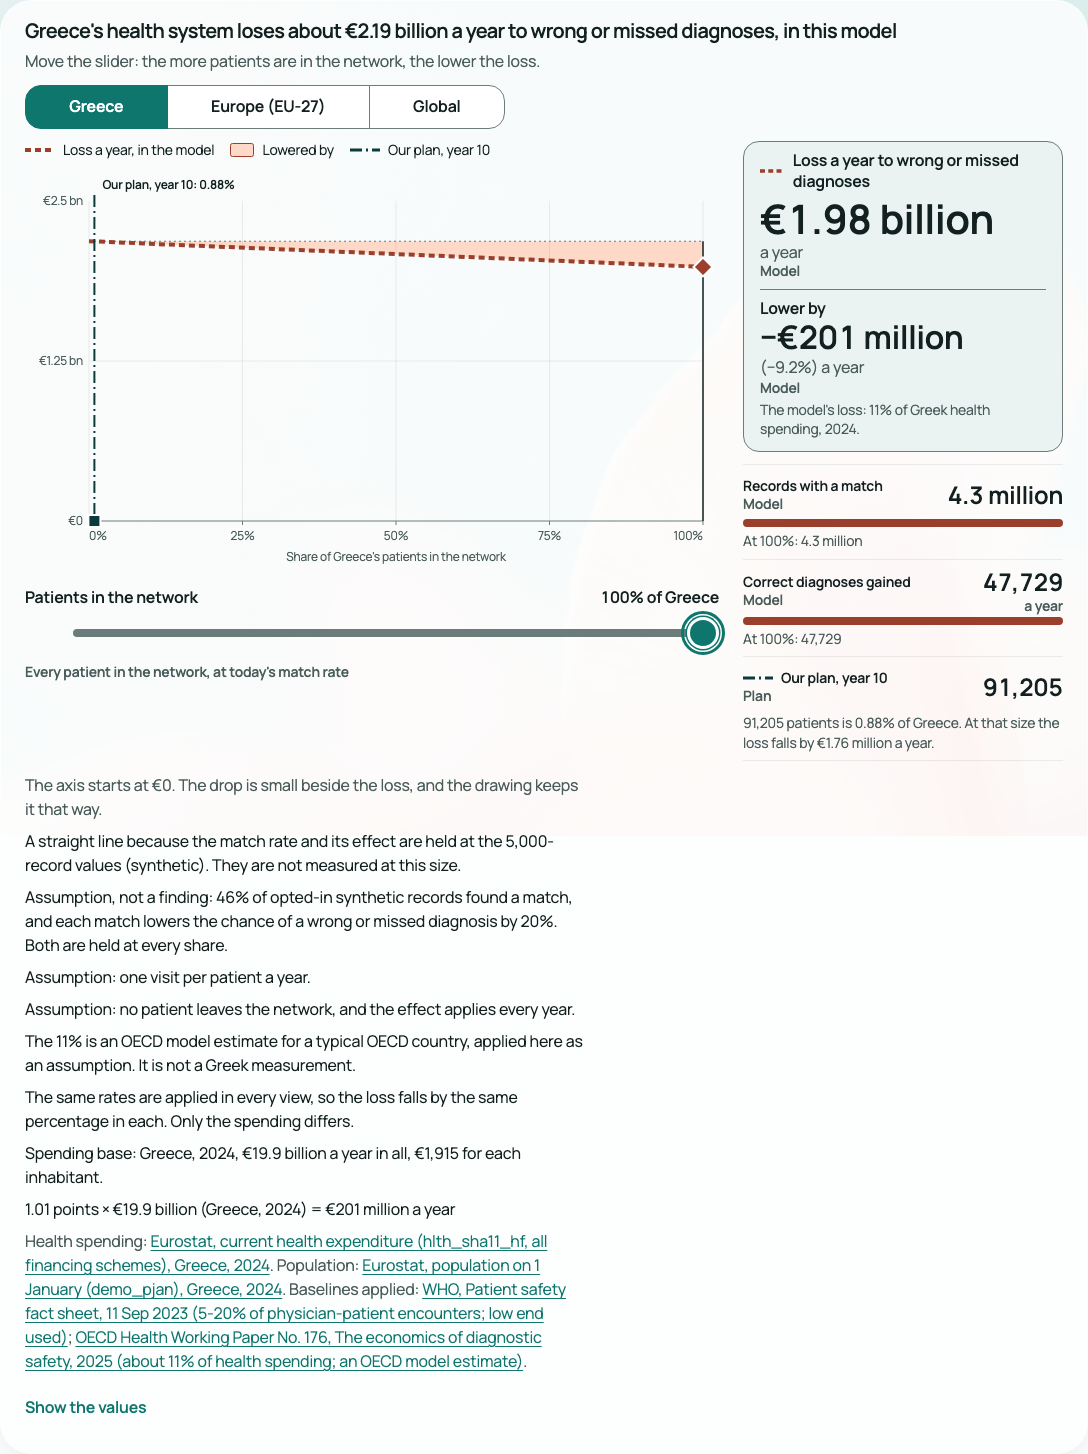
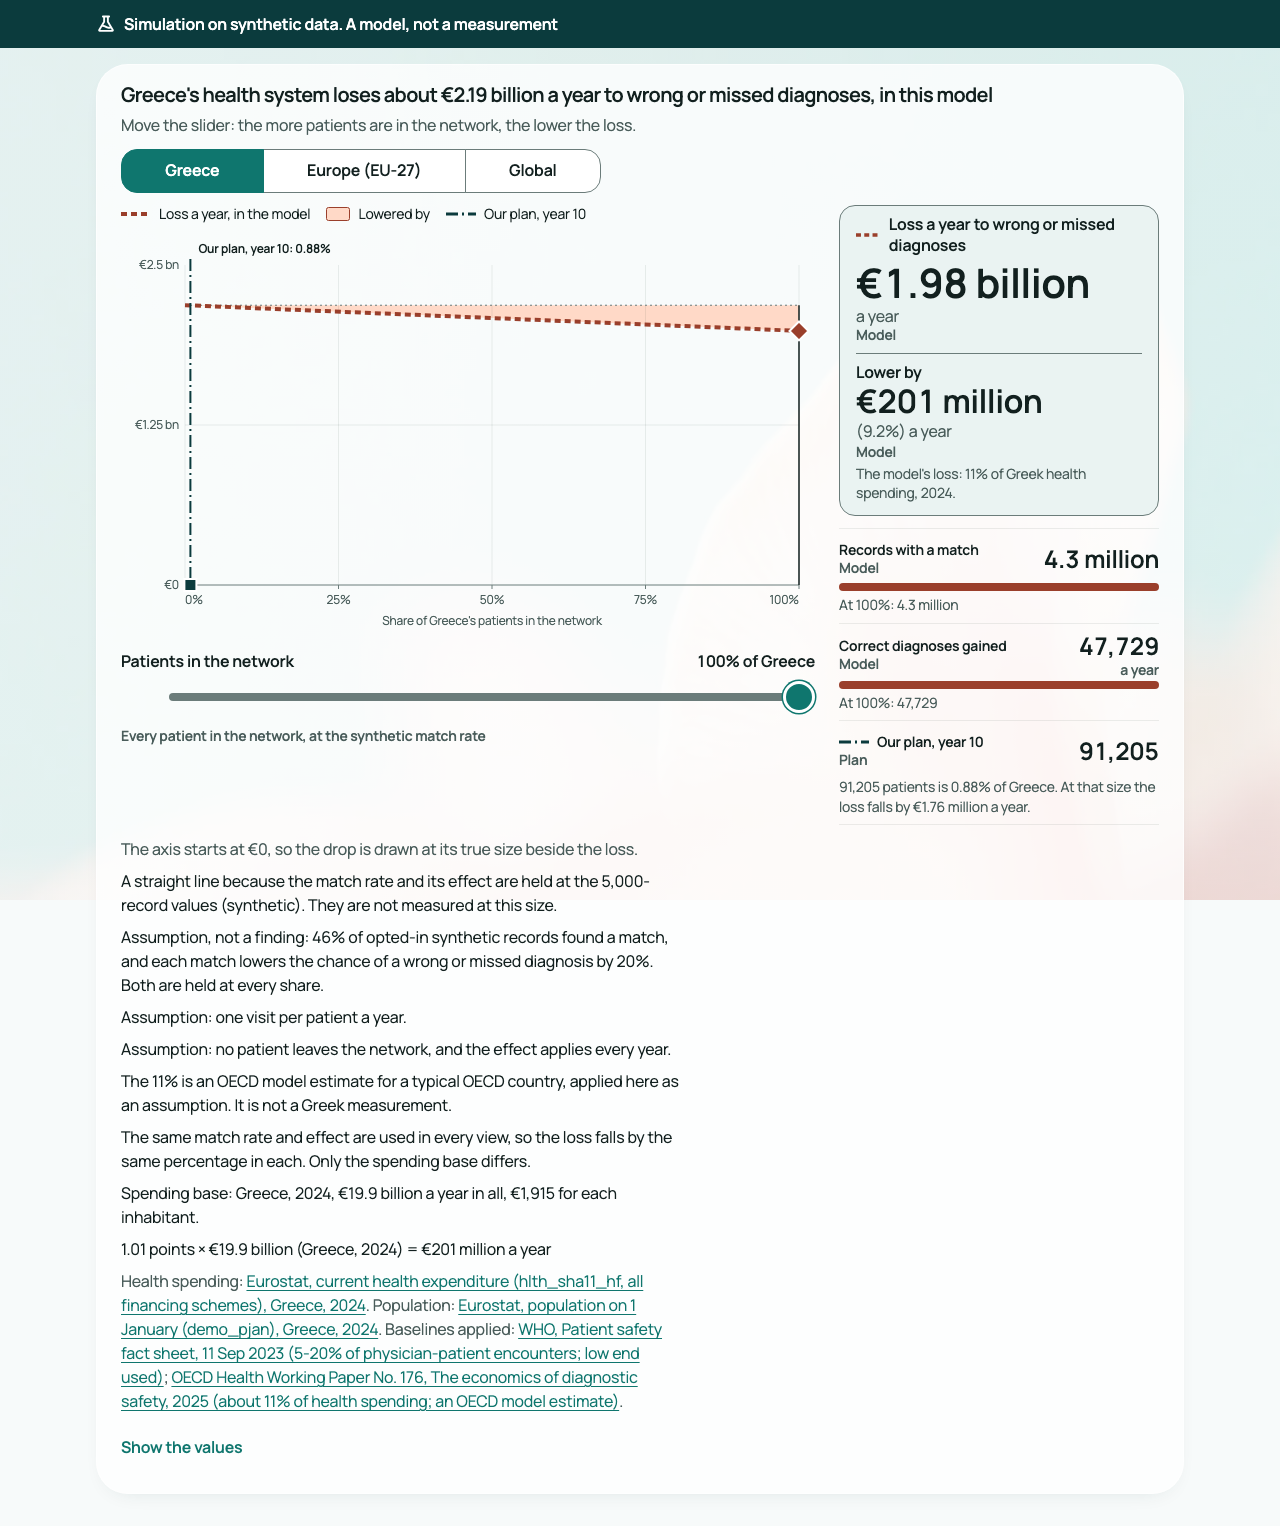
fix(sim): Anna's final loss-card strings, no minus after "Lower by" (MIN-4774) [Lane A] (#173)
Applies MIN-4770 comment 82f2dfc2 (rNoteAxis, rSameRates, rState, rFx) and drops the
minus on the drop figure, percentage and table column. Tests updated to the new text.

MIN-4774

(cherry picked from commit 3011bdd6074b96b651fabfb260415c70ee3cc27e)

diff --git a/src/features/matches/copy.ts b/src/features/matches/copy.ts
@@ -36,7 +36,7 @@ export const COPY = {
   optInReadError: 'Could not read your choice just now.',
 
   // The simulation page: ONE loss card (MIN-4774; spec A16; words: Anna MIN-4723 comment b08a38aa column M, CEO seat MIN-4771 rulings 2 and 3, CTO MIN-4769).
-  // No number is typed here: euros, counts, shares, years and the geography come from the data as arguments. Strings marked "pending Anna" are placeholders for her.
+  // No number is typed here: euros, counts, shares, years and the geography come from the data as arguments. Final strings: Anna, MIN-4770 comment 82f2dfc2.
   simLabel: 'Simulation on synthetic data. A model, not a measurement', // fixed by the CTO, never rewritten
   simUnavailable: 'The simulation data could not be read.',
   rTitle: {
@@ -54,15 +54,15 @@ export const COPY = {
     world: { of: 'the world', adj: 'world' },
   } as Record<string, { of: string; adj: string }>,
   rSliderLabel: 'Patients in the network',
-  rSliderLabelShort: 'Share in the network', // under 900 px (pending Anna)
+  rSliderLabelShort: 'Share in the network', // under 900 px
   rSliderValue: (a: { share: string; of: string }) => `${a.share} of ${a.of}`,
   rSliderAria: 'Share of patients in the network, from 0 to 100 percent. The numbers below show that share.',
   rSliderText: (a: { share: string; of: string; amount: string }) => `${a.share} of ${a.of}'s patients in the network. The loss falls by ${a.amount} a year.`,
-  // The state line under the slider (pending Anna): a fixed height, so nothing moves.
+  // The state line under the slider: a fixed height, so nothing moves.
   rState: {
-    zero: 'Today: nobody in the network, nothing changes',
-    plan: 'Close to the size our plan reaches by year 10',
-    full: "Every patient in the network, at today's match rate",
+    zero: 'Nobody in the network: the loss is unchanged',
+    plan: 'About the size our plan reaches in year 10',
+    full: 'Every patient in the network, at the synthetic match rate',
   },
   rHead: { loss: 'Loss a year to wrong or missed diagnoses', matches: 'Records with a match', dx: 'Correct diagnoses gained' },
   /** The money label is one constant (CEO seat MIN-4771 ruling 3: "Lower by"; the founder's form stays here, one word to switch, never without the CEO seat). */
@@ -80,7 +80,7 @@ export const COPY = {
   rPlanMarkerAria: (a: { year: number; share: string }) => `Marker: the share of patients our plan reaches in year ${a.year}, ${a.share}.`,
   rAxisTitle: (a: { of: string }) => `Share of ${a.of}'s patients in the network`,
   // The notes under the card, in this order (spec A16 section 7).
-  rNoteAxis: 'The axis starts at €0. The drop is small beside the loss, and the drawing keeps it that way.', // pending Anna
+  rNoteAxis: 'The axis starts at €0, so the drop is drawn at its true size beside the loss.',
   // The CTO's required line (MIN-4769 section 1), word for word, with the record count from the file.
   rStraight: (a: { records: string }) =>
     `A straight line because the match rate and its effect are held at the ${a.records}-record values (synthetic). They are not measured at this size.`,
@@ -88,7 +88,7 @@ export const COPY = {
     `Assumption, not a finding: ${a.rate} of opted-in synthetic records found a match, and each match lowers the chance of a wrong or missed diagnosis by ${a.effect}. Both are held at every share.`,
   rAssumeVisits: 'Assumption: one visit per patient a year.',
   rAssumeStay: 'Assumption: no patient leaves the network, and the effect applies every year.',
-  rSameRates: 'The same rates are applied in every view, so the loss falls by the same percentage in each. Only the spending differs.', // pending Anna
+  rSameRates: 'The same match rate and effect are used in every view, so the loss falls by the same percentage in each. Only the spending base differs.',
   // Anna's gAssumeShare for Greece and the EU-27 as drafted; the world's is the CEO seat's wording (MIN-4771 section 2). {share} is the file's baseline.
   rAssumeShare: {
     greece: (a: { share: string }) => `The ${a.share} is an OECD model estimate for a typical OECD country, applied here as an assumption. It is not a Greek measurement.`,
@@ -103,7 +103,7 @@ export const COPY = {
     `${a.points} points × ${a.total} (${a.geography}, ${a.year}) = ${a.amount} a year`,
   // Only where the file converts a currency (the world, 2023): the original, the head count and the named rate, visible without a tap (CEO seat conditions 18 and 19).
   rFx: (a: { total: string; perHead: string; people: string; year: number; rate: string }) =>
-    `Converted from ${a.total} (${a.perHead} a head, ${a.people} people, ${a.year}) at the ECB's ${a.year} average, US$ ${a.rate} per €1.`,
+    `Converted to euros from ${a.total} (${a.perHead} a head × ${a.people} people, ${a.year}) at the ECB's ${a.year} average rate, US$${a.rate} per €1.`,
   rSourceLead: 'Health spending:',
   rPopulationLead: 'Population:',
   rBaselines: 'Baselines applied:',

diff --git a/src/features/matches/reach.test.ts b/src/features/matches/reach.test.ts
@@ -213,20 +213,20 @@ describe('the card, as markup', () => {
       const html = render(id, 100);
       const c = cp(id, 100);
       expect(text(html, 'sim-value-loss'), `${title} loss`).toBe(rule(c.loss_eur));
-      expect(text(html, 'sim-value-drop'), `${title} drop`).toBe(`−${rule(c.drop_eur)}`);
-      expect(text(html, 'sim-drop-pct'), `${title} drop pct`).toBe('(−9.2%)');
+      expect(text(html, 'sim-value-drop'), `${title} drop`).toBe(rule(c.drop_eur));
+      expect(text(html, 'sim-drop-pct'), `${title} drop pct`).toBe('(9.2%)');
       expect(text(html, 'sim-value-matches'), `${title} matches`).toBe(count(c.matched));
       expect(text(html, 'sim-value-dx'), `${title} dx`).toBe(count(c.fewer_dx));
       expect(text(html, 'sim-state'), title).toBe(COPY.rState.full);
     }
-    expect(text(render('greece', 100), 'sim-value-drop')).toBe('−€201 million');
+    expect(text(render('greece', 100), 'sim-value-drop')).toBe('€201 million');
   });
 
   it('at 50% and 0.1% too, and the plan row and marker carry the plan\'s own figures', () => {
     const half = render('greece', 50);
     expect(text(half, 'sim-value-loss')).toBe(rule(cp('greece', 50).loss_eur));
     expect(text(half, 'sim-share')).toBe('50% of Greece');
-    expect(text(render('greece', 0.1), 'sim-value-drop')).toBe(`−${rule(cp('greece', 0.1).drop_eur)}`);
+    expect(text(render('greece', 0.1), 'sim-value-drop')).toBe(rule(cp('greece', 0.1).drop_eur));
     for (const g of M.geos) {
       const html = render(g.id, 0);
       const plan = cp(g.id, g.planSharePct);
@@ -261,7 +261,7 @@ describe('the card, as markup', () => {
       expect(text(html, 'sim-straight'), g.id).toBe('A straight line because the match rate and its effect are held at the 5,000-record values (synthetic). They are not measured at this size.');
       expect(text(html, 'sim-assumption'), g.id).toContain('46% of opted-in synthetic records found a match');
       expect(text(html, 'sim-help-loss'), g.id).toContain('11% of');
-      expect(text(html, 'sim-same-rates'), g.id).toContain('Only the spending differs');
+      expect(text(html, 'sim-same-rates'), g.id).toContain('Only the spending base differs');
       expect(html, g.id).not.toContain('41.4');
       expect(html, g.id).not.toMatch(/saved|savings|\bwill\b/i);
       expect(html, g.id).toContain('Simulation on synthetic data. A model, not a measurement');
@@ -273,7 +273,7 @@ describe('the card, as markup', () => {
     expect(text(w, 'sim-title')).toContain('Health systems worldwide lose about');
     expect(text(w, 'sim-base')).toContain('Global, 2023');
     expect(text(w, 'sim-fx')).toBe(
-      `Converted from US$${sig(geo('world').original.total / 1e12)} trillion (US$1,317 a head, 8.06 billion people, 2023) at the ECB's 2023 average, US$ 1.0813 per €1.`,
+      `Converted to euros from US$${sig(geo('world').original.total / 1e12)} trillion (US$1,317 a head × 8.06 billion people, 2023) at the ECB's 2023 average rate, US$1.0813 per €1.`,
     );
     expect(text(w, 'sim-share-note')).toContain('applied here to the world as an assumption');
     expect(text(w, 'sim-share-note')).toContain('Read it as a scale, not a measurement.');
@@ -294,7 +294,7 @@ describe('the card, as markup', () => {
     const html = render('greece', 0);
     expect([...html.matchAll(/data-testid="sim-values-row-(\d+)"/g)].map((m) => Number(m[1]))).toEqual([0, 10, 20, 30, 40, 50, 60, 70, 80, 90, 100]);
     expect(text(html, 'sim-values-row-50')).toContain(rule(cp('greece', 50).loss_eur));
-    expect(text(html, 'sim-values-row-100')).toContain('−€201 million');
+    expect(text(html, 'sim-values-row-100')).toContain('€201 million');
   });
 
   it('the plot is one SVG that starts at zero: three ticks, today\'s loss on the top of the line, no second axis', () => {

diff --git a/src/features/matches/SimReach.tsx b/src/features/matches/SimReach.tsx
@@ -8,7 +8,7 @@
 import { useId, useLayoutEffect, useMemo, useRef, useState } from 'react';
 import { COPY } from './copy';
 import {
-  DEFAULT_SHARE, MINUS, TENTHS_MAX, dropShare, formatCount, formatEuro, formatEuroShort, formatLossPct, formatPlain, formatRate, formatSmallShare, formatStep, formatUsd, formatWhole,
+  DEFAULT_SHARE, TENTHS_MAX, dropShare, formatCount, formatEuro, formatEuroShort, formatLossPct, formatPlain, formatRate, formatSmallShare, formatStep, formatUsd, formatWhole,
   niceMax, originalPerInhabitant, pctOfTenths, plotGeometry, pointAt, startTenths, tenthsOfPct, type Geo, type Geometry, type Reach,
 } from './reach';
 
@@ -108,8 +108,8 @@ export function SimReach({ model, initialGeo, initialShare }: SimReachProps) {
   const planStop = Math.round(geo.planSharePct * 10) === tenths && tenths > 0;
   const cx = g.x(share);
   const cy = g.y(p.loss);
-  const lowered = share === 0 ? '€0' : `${MINUS}${formatEuro(p.drop)}`;
-  const loweredPct = share === 0 ? '' : `(${MINUS}${formatLossPct(dropShare(geo) * (share / 100))})`;
+  const lowered = share === 0 ? '€0' : formatEuro(p.drop);
+  const loweredPct = share === 0 ? '' : `(${formatLossPct(dropShare(geo) * (share / 100))})`;
   const state = tenths === 0 ? COPY.rState.zero : tenths === TENTHS_MAX ? COPY.rState.full : planStop ? COPY.rState.plan : '';
   const shareText = formatStep(share);
   const valueText = COPY.rSliderValue({ share: shareText, of: sub.of });
@@ -253,7 +253,7 @@ export function SimReach({ model, initialGeo, initialShare }: SimReachProps) {
                 const t = pointAt(model, geo, s);
                 return (
                   <tr key={s} data-testid={`sim-values-row-${s}`}>
-                    <td>{s}%</td><td>{formatEuro(t.loss)}</td><td>{s === 0 ? '€0' : `${MINUS}${formatEuro(t.drop)}`}</td><td>{formatCount(t.matched)}</td><td>{formatCount(t.fewerDx)}</td>
+                    <td>{s}%</td><td>{formatEuro(t.loss)}</td><td>{s === 0 ? '€0' : formatEuro(t.drop)}</td><td>{formatCount(t.matched)}</td><td>{formatCount(t.fewerDx)}</td>
                   </tr>
                 );
               })}
